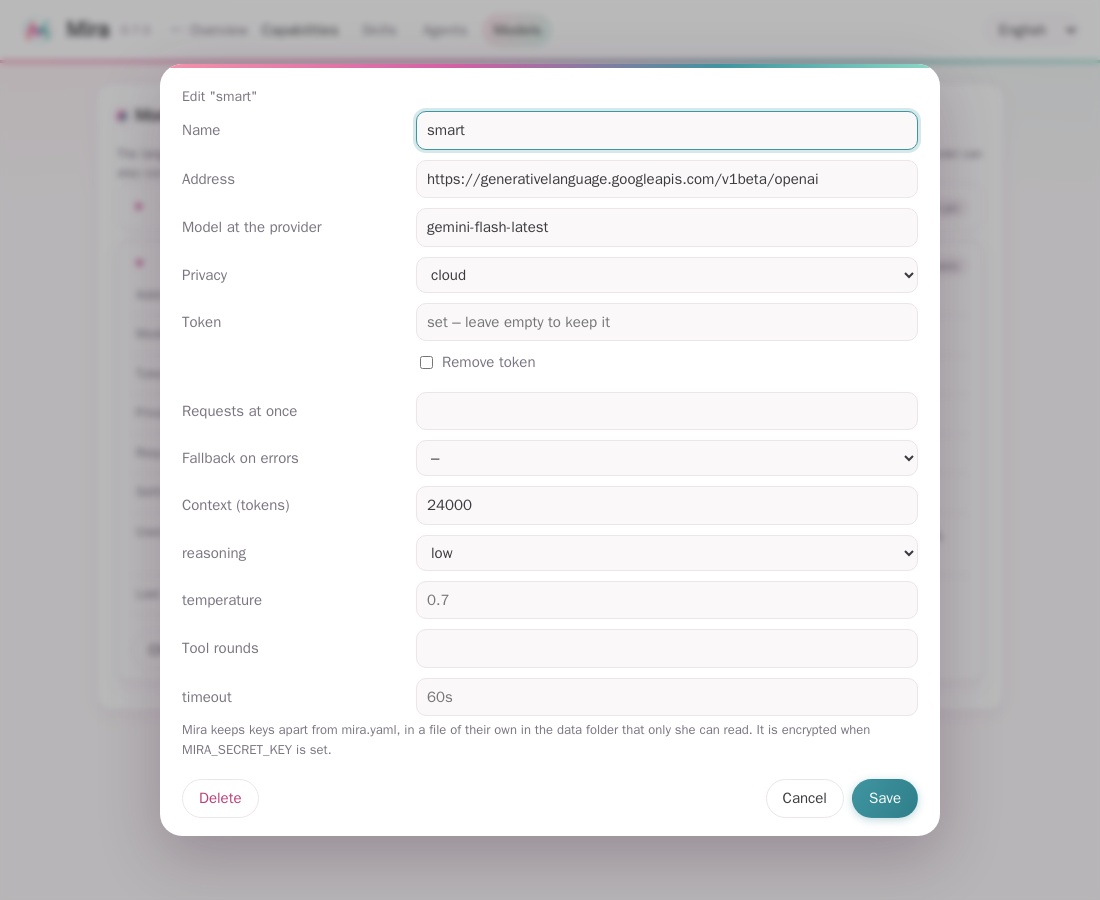
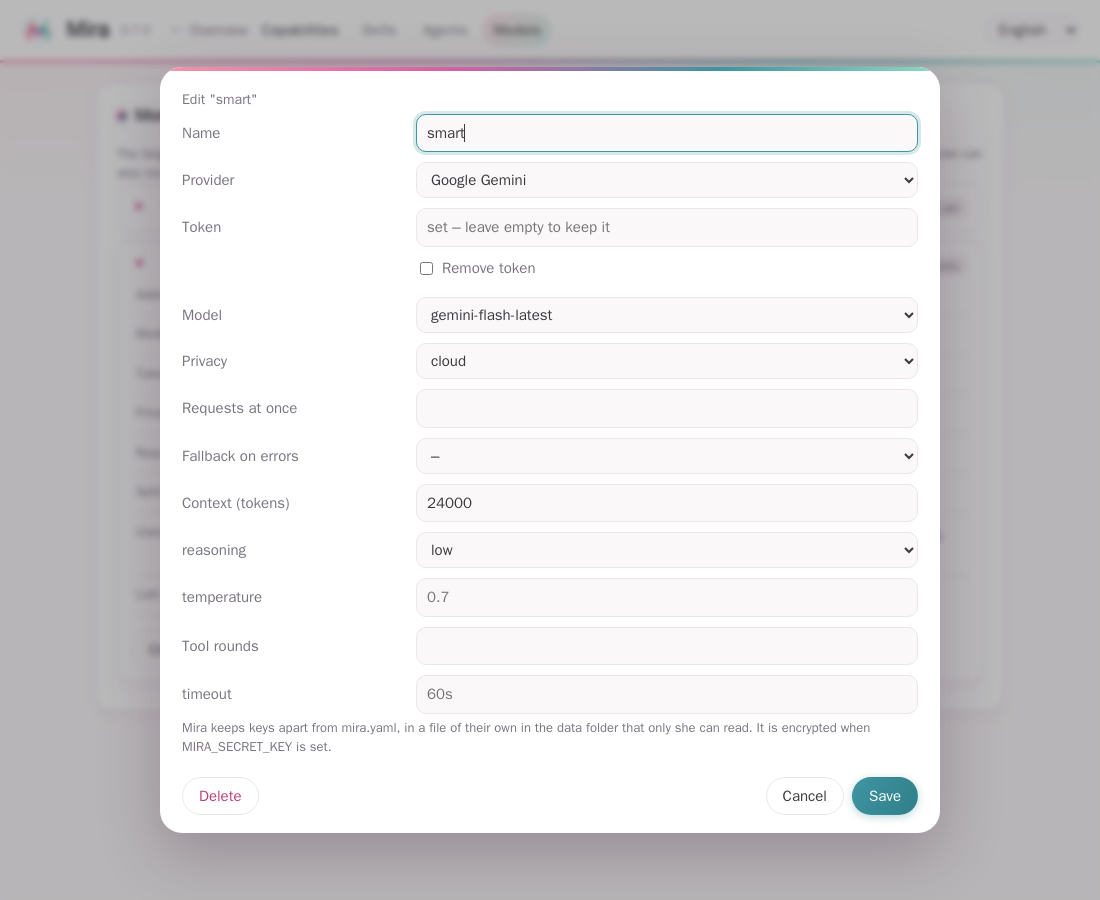
Release 0.8.0: guide pictures of the model form and skills

diff --git a/custom_components/mira/const.py b/custom_components/mira/const.py
@@ -4,7 +4,7 @@ DOMAIN = "mira"
 # The version of the code that runs: Home Assistant imports an integration
 # once, at start, so after files are replaced only a restart changes it.
 # Kept equal to manifest.json.
-VERSION = "0.7.0"
+VERSION = "0.8.0"
 
 CONF_PERSONA = "persona"
 # Mira's own web search, switched at the agent (docs/spec/websuche.md).

diff --git a/cmd/mira/main.go b/cmd/mira/main.go
@@ -24,7 +24,7 @@ import (
 // version is Mira's version: raised with every change that goes live, so
 // the web UI and /v1/health show at once which build runs. A release build
 // may still set it with -ldflags "-X main.version=...".
-var version = "0.7.0"
+var version = "0.8.0"
 
 func main() {
 	if err := run(); err != nil {

diff --git a/docs/guide/de.md b/docs/guide/de.md
@@ -664,7 +664,7 @@ Die **Übersicht** zeigt vier Karten. Jede nennt kurz, was gerade los ist, und f
 - Bei Skills: einschalten, ausschalten und einstellen, bei einem Skill mit MCP-Server mit **Verbindung testen**. Bei eigenen Skills auch die Anleitung, die Agenten, den Vorgang und den MCP-Server; mitgelieferte Skills ersetzt ein Update, darum dort nur die Einstellungen.
 - Änderungen gelten nach einem Neustart; die Seite bietet dafür **Mira neu starten** an.
 
-![Ein Modell bearbeiten: der Token bleibt verborgen und landet nicht in der mira.yaml](img/mira-bearbeiten-de.png)
+![Ein Modell bearbeiten: Anbieter und Modell zur Auswahl, der Token bleibt verborgen und landet nicht in der mira.yaml](img/mira-bearbeiten-de.png)
 
 Wer kein Admin ist, sieht nur **Pläne**, **Gedächtnis** und **Anleitung**. Damit Mira weiß, wessen Gedächtnis du bist, muss deine Person mit deinem HA-Benutzer verknüpft sein (Einstellungen → Personen).
 

diff --git a/docs/guide/en.md b/docs/guide/en.md
@@ -640,7 +640,7 @@ The **Overview** shows four cards. Each says briefly what is going on and leads 
 - Skills: switch on, switch off and set them up, with **Test connection** for a skill with an MCP server. For your own skills also the instructions, agents, thread and MCP server; an update replaces the bundled skills, so for those only the settings.
 - Changes hold after a restart; the page offers **Restart Mira** for it.
 
-![Editing a model: the token stays hidden and does not go into mira.yaml](img/mira-bearbeiten-en.png)
+![Editing a model: provider and model to choose from, the token stays hidden and does not go into mira.yaml](img/mira-bearbeiten-en.png)
 
 Someone who is no admin sees only **Plans**, **Memory** and **Guide**. For Mira to know whose memory is yours, your person must be linked to your HA user (Settings → People).
 

diff --git a/docs/spec/bearbeiten.md b/docs/spec/bearbeiten.md
@@ -1,6 +1,6 @@
 # Editing models, agents and skills on Mira's page
 
-Status 2026-10-24: built, released in 0.7.0. Scenarios: [bearbeiten.feature](bearbeiten.feature).
+Status 2026-10-25: built, released in 0.7.0; provider list and model check in 0.8.0. Scenarios: [bearbeiten.feature](bearbeiten.feature).
 
 ## Goal
 
